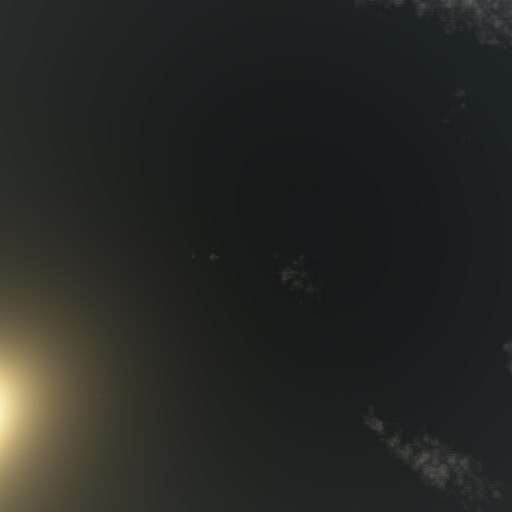
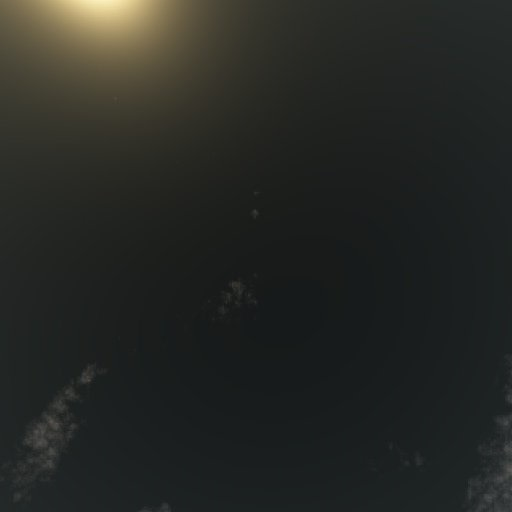
update; fixed viewer update;

diff --git a/osgviewerQt/src/DualScreenViewer.cpp b/osgviewerQt/src/DualScreenViewer.cpp
@@ -41,10 +41,6 @@ bool DualScreenViewer::InitViews()
         osg::DisplaySettings* ds = new osg::DisplaySettings();
         view->setDisplaySettings(ds);
 
-        OsgExtension::ViewUpdateHandler* viewUpdateHandler = new  OsgExtension::ViewUpdateHandler();
-        viewUpdateHandler->Set(DualScreenViewer::UpdateMap, this);
-        view->addEventHandler( viewUpdateHandler );
-
         osg::ref_ptr<osgGA::TrackerManipulator> trackerManipulator = new osgGA::TrackerManipulator();
         trackerManipulator->setName("Tracker");
         trackerManipulator->setVerticalAxisFixed(false);
@@ -134,8 +130,8 @@ bool DualScreenViewer::Init()
     if (InitViews())
     {
         osgViewer::View* mainView = GetMainView();
-        osgViewer::View* mapView = GetMapView();
-        setRunFrameScheme( osgViewer::ViewerBase::ON_DEMAND );
+        //osgViewer::View* mapView = GetMapView();
+        //setRunFrameScheme( osgViewer::ViewerBase::ON_DEMAND );
         if(InitGraphics(mainView))
         {
             CreateGraphicsWindow(mainView);
@@ -153,21 +149,20 @@ void DualScreenViewer::Update()
     osgGA::KeySwitchMatrixManipulator* keyManipulator = static_cast<osgGA::KeySwitchMatrixManipulator*>(view->getCameraManipulator());
     if (keyManipulator)
     {
+        osg::Vec3d eye;
+        osg::Quat rotation;
         osgGA::CameraManipulator* cameraManipulator = keyManipulator->getCurrentMatrixManipulator(); //keyManipulator->getMatrixManipulatorWithIndex(i);
-        HandleManipulator(cameraManipulator);
+        HandleManipulator(cameraManipulator, eye, rotation);
+        Update(view, eye);
     }
-    Update(view, m_virtualEye);
 }
 
-void DualScreenViewer::HandleManipulator(osgGA::CameraManipulator* cameraManipulator)
+void DualScreenViewer::HandleManipulator(osgGA::CameraManipulator* cameraManipulator, osg::Vec3d& eye, osg::Quat& rotation)
 {
-    osg::Quat rotation;
-    osg::Vec3d eye;
-
     if (cameraManipulator->getName() == "Tracker")
     {
         osgGA::TrackerManipulator* trackerManipulator = static_cast<osgGA::TrackerManipulator*>(cameraManipulator);
-        trackerManipulator->setTrackingResults(m_virtualEye, m_virtualCenter, m_virtualOrigin);
+        trackerManipulator->setTrackingResults(m_virtualEye, m_virtualCenter);
         trackerManipulator->getTransformation(eye, rotation);
     }
 
@@ -182,24 +177,8 @@ void DualScreenViewer::HandleManipulator(osgGA::CameraManipulator* cameraManipul
         osgGA::TrackballManipulator* trackballManipulator = static_cast<osgGA::TrackballManipulator*>(cameraManipulator);
         trackballManipulator->getTransformation(eye, rotation);
     }
-
-    m_virtualEye = eye;
 }
 
-void DualScreenViewer::UpdateMap(void* instance)
-{
-    // Update the wireframe frustum
-    
-    DualScreenViewer* pThis = static_cast<DualScreenViewer*>(instance);
-    osgViewer::View* mapView = pThis->GetMapView();
-    osg::Group* root = static_cast<osg::Group*>(mapView->getSceneData());
-    if (root) 
-    {
-        osg::Node* map = root->getChild(1);
-        osgViewer::View* mainView = pThis->GetMainView();
-        root->replaceChild(map, pThis->makeFrustumFromCamera( mainView ));
-    }
-}
 
 
 void DualScreenViewer::SetupView()

diff --git a/Holoview/include/HoloviewHelper.h b/Holoview/include/HoloviewHelper.h
@@ -82,8 +82,6 @@ namespace HoloviewHelper
         bool flipY[NumOfSkyBoxes];
     };
 
-    SkyBoxInfo m_skybox;
-
     QMap<QString, QSize> parseCustomSizeHints(int argc, char **argv)
     {
         QMap<QString, QSize> result;
@@ -124,6 +122,20 @@ namespace HoloviewHelper
         {
             dualViewer->SetVirtualEye(eye);
             dualViewer->Update();
+        }
+    }
+    
+    void UpdateMap(void* instance)
+    {
+        // Update the wireframe frustum
+        DualScreenViewer* pThis = static_cast<DualScreenViewer*>(instance);
+        osgViewer::View* mapView = pThis->GetMapView();
+        osg::Group* root = static_cast<osg::Group*>(mapView->getSceneData());
+        if (root) 
+        {
+            osg::Node* map = root->getChild(1);
+            osgViewer::View* mainView = pThis->GetMainView();
+            root->replaceChild(map, pThis->makeFrustumFromCamera( mainView ));
         }
     }
 
@@ -171,7 +183,7 @@ namespace HoloviewHelper
         view->setSceneData( root );
     }
 
-    void AddSkyBox(osgViewer::View* view, std::string name)
+    void AddSkyBox(SkyBoxInfo& skyboxImages, osgViewer::View* view, std::string name)
     {
         osg::Node* scene = view->getSceneData();
 
@@ -183,12 +195,12 @@ namespace HoloviewHelper
         skybox->getOrCreateStateSet()->setTextureAttributeAndModes( 0, new osg::TexGen );
 
         skybox->setEnvironmentMap( 0, 
-                                    m_skybox.ImageList[name][pos_x],
-                                    m_skybox.ImageList[name][neg_x],
-                                    m_skybox.ImageList[name][pos_y],
-                                    m_skybox.ImageList[name][neg_y],
-                                    m_skybox.ImageList[name][pos_z],
-                                    m_skybox.ImageList[name][neg_z]);
+                                    skyboxImages.ImageList[name][pos_x],
+                                    skyboxImages.ImageList[name][neg_x],
+                                    skyboxImages.ImageList[name][pos_y],
+                                    skyboxImages.ImageList[name][neg_y],
+                                    skyboxImages.ImageList[name][pos_z],
+                                    skyboxImages.ImageList[name][neg_z]);
         skybox->addChild( geode );
 
         osg::Group* root = new osg::Group;
@@ -230,8 +242,6 @@ namespace HoloviewHelper
 
         osgViewer::View* mainView = dualViewer.GetMainView();
         mainView->setSceneData( scene.get() );
-        AddGrid( mainView );
-        AddSkyBox( mainView , "snow");
 
         // View 1 -- Contains the loaded model, as well as a wireframe frustum derived from View 0's Camera.
 

diff --git a/osgviewerQt/src/TrackerManipulator.cpp b/osgviewerQt/src/TrackerManipulator.cpp
@@ -40,6 +40,9 @@ TrackerManipulator::TrackerManipulator( int flags )
    setAcceleration( 1.0, true );
    setMaxVelocity( 0.25, true );
    setWheelMovement( 0.05, true );
+   KinectBasePosition.set(0.0, 1.0, 0.45);
+   KinectEyeOffset.set(0.015, 0.06, 0.03);
+   KinectPitchAngle = osg::inDegrees(0.0);
    if( _flags & SET_CENTER_ON_WHEEL_FORWARD_MOVEMENT )
       setAnimationTime( 0.2 );
 }
@@ -149,19 +152,17 @@ void TrackerManipulator::setVelocity( const double& velocity )
    _velocity = velocity;
 }
 
-void TrackerManipulator::setTrackingResults(const osg::Vec3& eye, const osg::Vec3& center, const osg::Vec3& origin)
+void TrackerManipulator::setTrackingResults(const osg::Vec3& eye, const osg::Vec3& center, const osg::Vec3& viewUp)
 {
-    const osg::Vec3 kinectBasePosition(0.0, 1.0, 0.45);
-    const osg::Vec3 kinectEyeOffset(0.015, 0.06, 0.03);
-    const double kinectPitchAngle = osg::inDegrees(0.0);
+
     const osg::Vec3 xAxis(1.0, 0.0, 0.0);
 
-    osg::Vec3 kinectFrustumOffset(eye.x(), eye.y() + eye.z() * sin(kinectPitchAngle), eye.z() * cos(kinectPitchAngle));
-    osg::Vec3 kinectFrustumOrigin = kinectBasePosition + osg::Matrix::rotate(kinectPitchAngle, xAxis) * kinectEyeOffset;
+    osg::Vec3 kinectFrustumOffset(eye.x(), eye.y() + eye.z() * sin(KinectPitchAngle), eye.z() * cos(KinectPitchAngle));
+    osg::Vec3 kinectFrustumOrigin = KinectBasePosition + osg::Matrix::rotate(KinectPitchAngle, xAxis) * KinectEyeOffset;
 
-    setTransformation( kinectFrustumOrigin + kinectFrustumOffset - origin,
-                       center - origin, 
-                       osg::Vec3d(0,1,0) );
+    setTransformation( kinectFrustumOrigin + kinectFrustumOffset,
+                       center, 
+                       viewUp);
 }
 /** Sets acceleration.
  *

diff --git a/Holoview/src/main.cpp b/Holoview/src/main.cpp
@@ -41,13 +41,22 @@ int main(int argc, char *argv[])
     
     DualScreenViewer dualViewer;
     HoloviewHelper::Init(dualViewer);
-
     // tracker
-    window.Init(&dualViewer);
-    window.workerThread.start();
-
+    window.AddViewer(&dualViewer);
     //top level tracker update callback
-    dualViewer.Set(HoloviewHelper::ViewUpdateStatic, &dualViewer);
+
+    HoloviewHelper::AddGrid(dualViewer.GetMainView());
+    HoloviewHelper::SkyBoxInfo skyBoxInfo;
+    HoloviewHelper::AddSkyBox( skyBoxInfo, dualViewer.GetMainView() , "snow");
+
+    osg::ref_ptr<OsgExtension::ViewUpdateHandler> viewUpdateHandler = new  OsgExtension::ViewUpdateHandler();
+    viewUpdateHandler->updateCallback.Set(HoloviewHelper::ViewUpdateStatic, &dualViewer);
+    dualViewer.GetMainView()->addEventHandler( viewUpdateHandler );
+
+    OsgExtension::ViewUpdateHandler* mapUpdateHandler = new  OsgExtension::ViewUpdateHandler();
+    mapUpdateHandler->updateCallback.Set(HoloviewHelper::UpdateMap, &dualViewer);
+    dualViewer.GetMapView()->addEventHandler( viewUpdateHandler );
+
     tracker.AddTrackEventCallback(Callback(HoloviewHelper::TrackerUpdateStatic, &tracker));
     // run all modules
     window.show();

diff --git a/osgviewerQt/include/TrackerManipulator.h b/osgviewerQt/include/TrackerManipulator.h
@@ -28,7 +28,7 @@ namespace osgGA {
             virtual void getTransformation( osg::Vec3d& eye, osg::Quat& rotation ) const;
             virtual void getTransformation( osg::Vec3d& eye, osg::Vec3d& center, osg::Vec3d& up ) const;
 
-            virtual void setTrackingResults(const osg::Vec3& eye, const osg::Vec3& center, const osg::Vec3& origin);
+            virtual void setTrackingResults(const osg::Vec3& eye, const osg::Vec3& center, const osg::Vec3& viewUp = osg::Vec3(0,1,0));
 
             virtual void setVelocity( const double& velocity );
             inline double getVelocity() const;
@@ -44,6 +44,11 @@ namespace osgGA {
             virtual void home( double );
 
             virtual void init( const osgGA::GUIEventAdapter& ea, osgGA::GUIActionAdapter& us );
+
+            osg::Vec3 KinectBasePosition;
+            osg::Vec3 KinectEyeOffset;
+            double KinectPitchAngle;
+
 
         protected:
 

diff --git a/osgviewerQt/include/DualScreenViewer.h b/osgviewerQt/include/DualScreenViewer.h
@@ -12,7 +12,7 @@
 typedef bool (*ViewCompareFunction)(osgViewer::View* view);
 
 
-class DualScreenViewer : public osgViewer::CompositeViewer, public Callback
+class DualScreenViewer : public osgViewer::CompositeViewer
 {
 
 public:
@@ -52,9 +52,9 @@ protected:
     virtual void SetupProjection();
     virtual void CreateGraphicsWindow(osgViewer::View* view);
     virtual void Update(osgViewer::View* view, osg::Vec3 eye);
-    virtual void HandleManipulator(osgGA::CameraManipulator* cameraManipulator);
+    virtual void HandleManipulator(osgGA::CameraManipulator* cameraManipulator, osg::Vec3d& eye, osg::Quat& rotation);
 
-    static void UpdateMap(void* instance);
+
     ScreenInfo m_display;
     std::vector<TiltedScreen> m_displays;
     osg::Geode* DrawFrustum(ScreenInfo& info);

diff --git a/osgviewerQt/include/osgExtension.h b/osgviewerQt/include/osgExtension.h
@@ -275,17 +275,20 @@ namespace OsgExtension
         double _deltaSpan;
     };
 
-    class ViewUpdateHandler : public osgGA::GUIEventHandler, public Callback
+    class ViewUpdateHandler : public osgGA::GUIEventHandler
     {
     public:
         virtual bool handle(const osgGA::GUIEventAdapter& ea, osgGA::GUIActionAdapter& aa, osg::Object*, osg::NodeVisitor*) 
         { 
-            if (m_callback)
+            if (updateCallback.GetInstance())
             {
-                SyncCall();
+                updateCallback.SyncCall();
             }
             return osgGA::GUIEventHandler::handle(ea,aa);
         }
+        Callback updateCallback;
     };
+
+
 }
 #endif

diff --git a/Holoview/include/HoloWindow.h b/Holoview/include/HoloWindow.h
@@ -39,7 +39,7 @@ class HoloWindow : public MainWindow
         virtual void handleResults();
         QThread workerThread;
         Worker* worker;
-        void Init(osgViewer::ViewerBase *viewer);
+        void AddViewer(osgViewer::ViewerBase *viewer);
     signals:
         void operate(const QString& parameter);
     protected:

diff --git a/Holoview/src/HoloWindow.cpp b/Holoview/src/HoloWindow.cpp
@@ -20,7 +20,7 @@ HoloWindow::~HoloWindow()
     }
 }
 
-void HoloWindow::Init(osgViewer::ViewerBase *viewer)
+void HoloWindow::AddViewer(osgViewer::ViewerBase *viewer)
 {
     worker = new Worker(viewer);
     worker->moveToThread(&workerThread);

diff --git a/Holoview/src/Worker.cpp b/Holoview/src/Worker.cpp
@@ -5,7 +5,7 @@ Worker::~Worker()
 { 
     if (_viewer) 
     { 
-        while (_viewer->areThreadsRunning())
+        if (_viewer->areThreadsRunning())
         {
             _viewer->stopThreading();
         }
